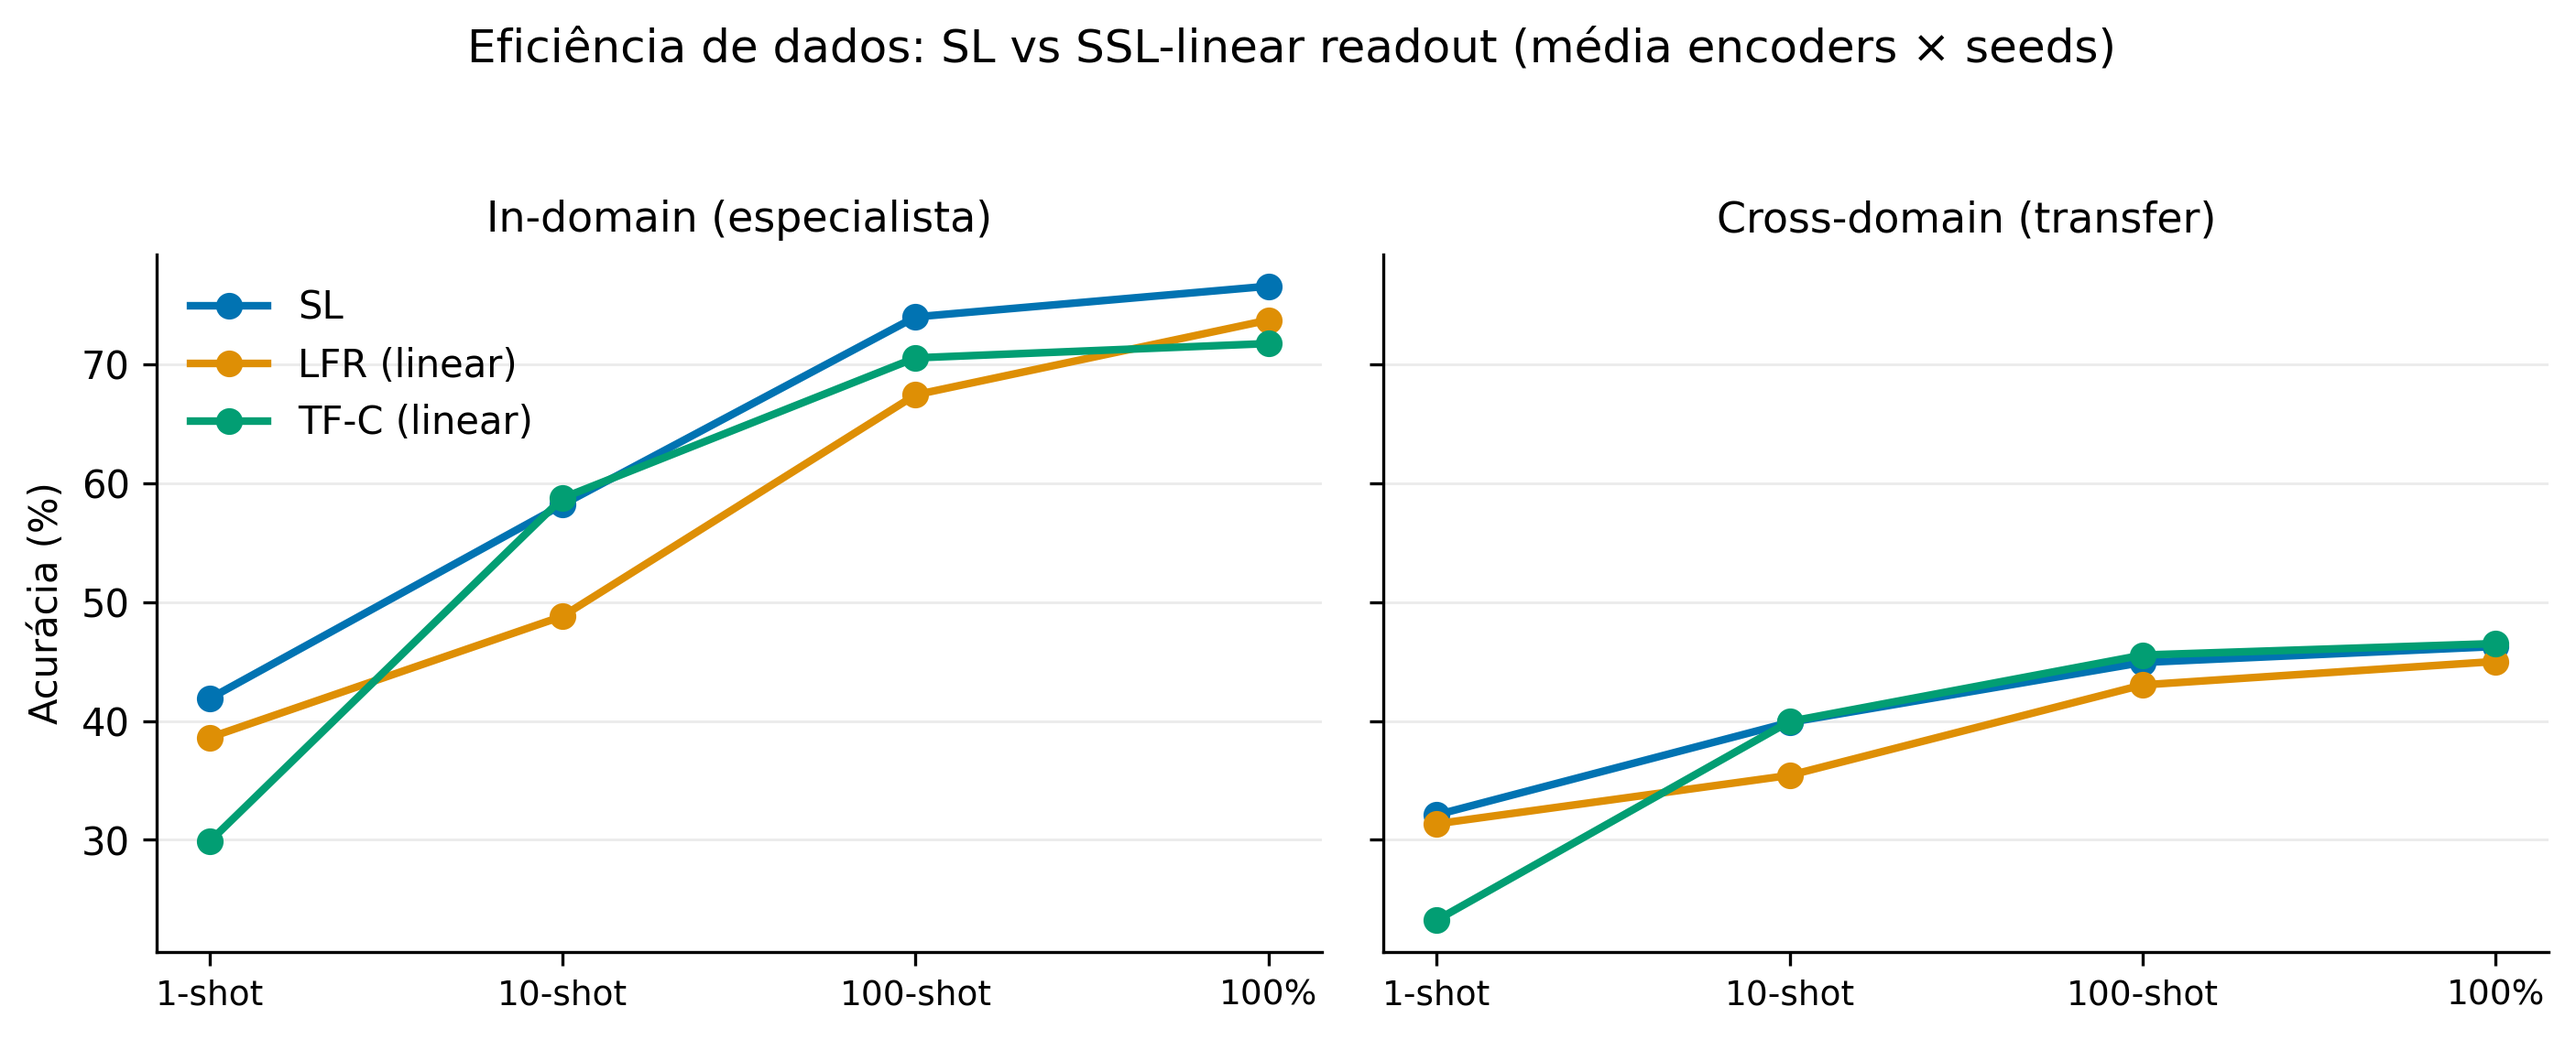
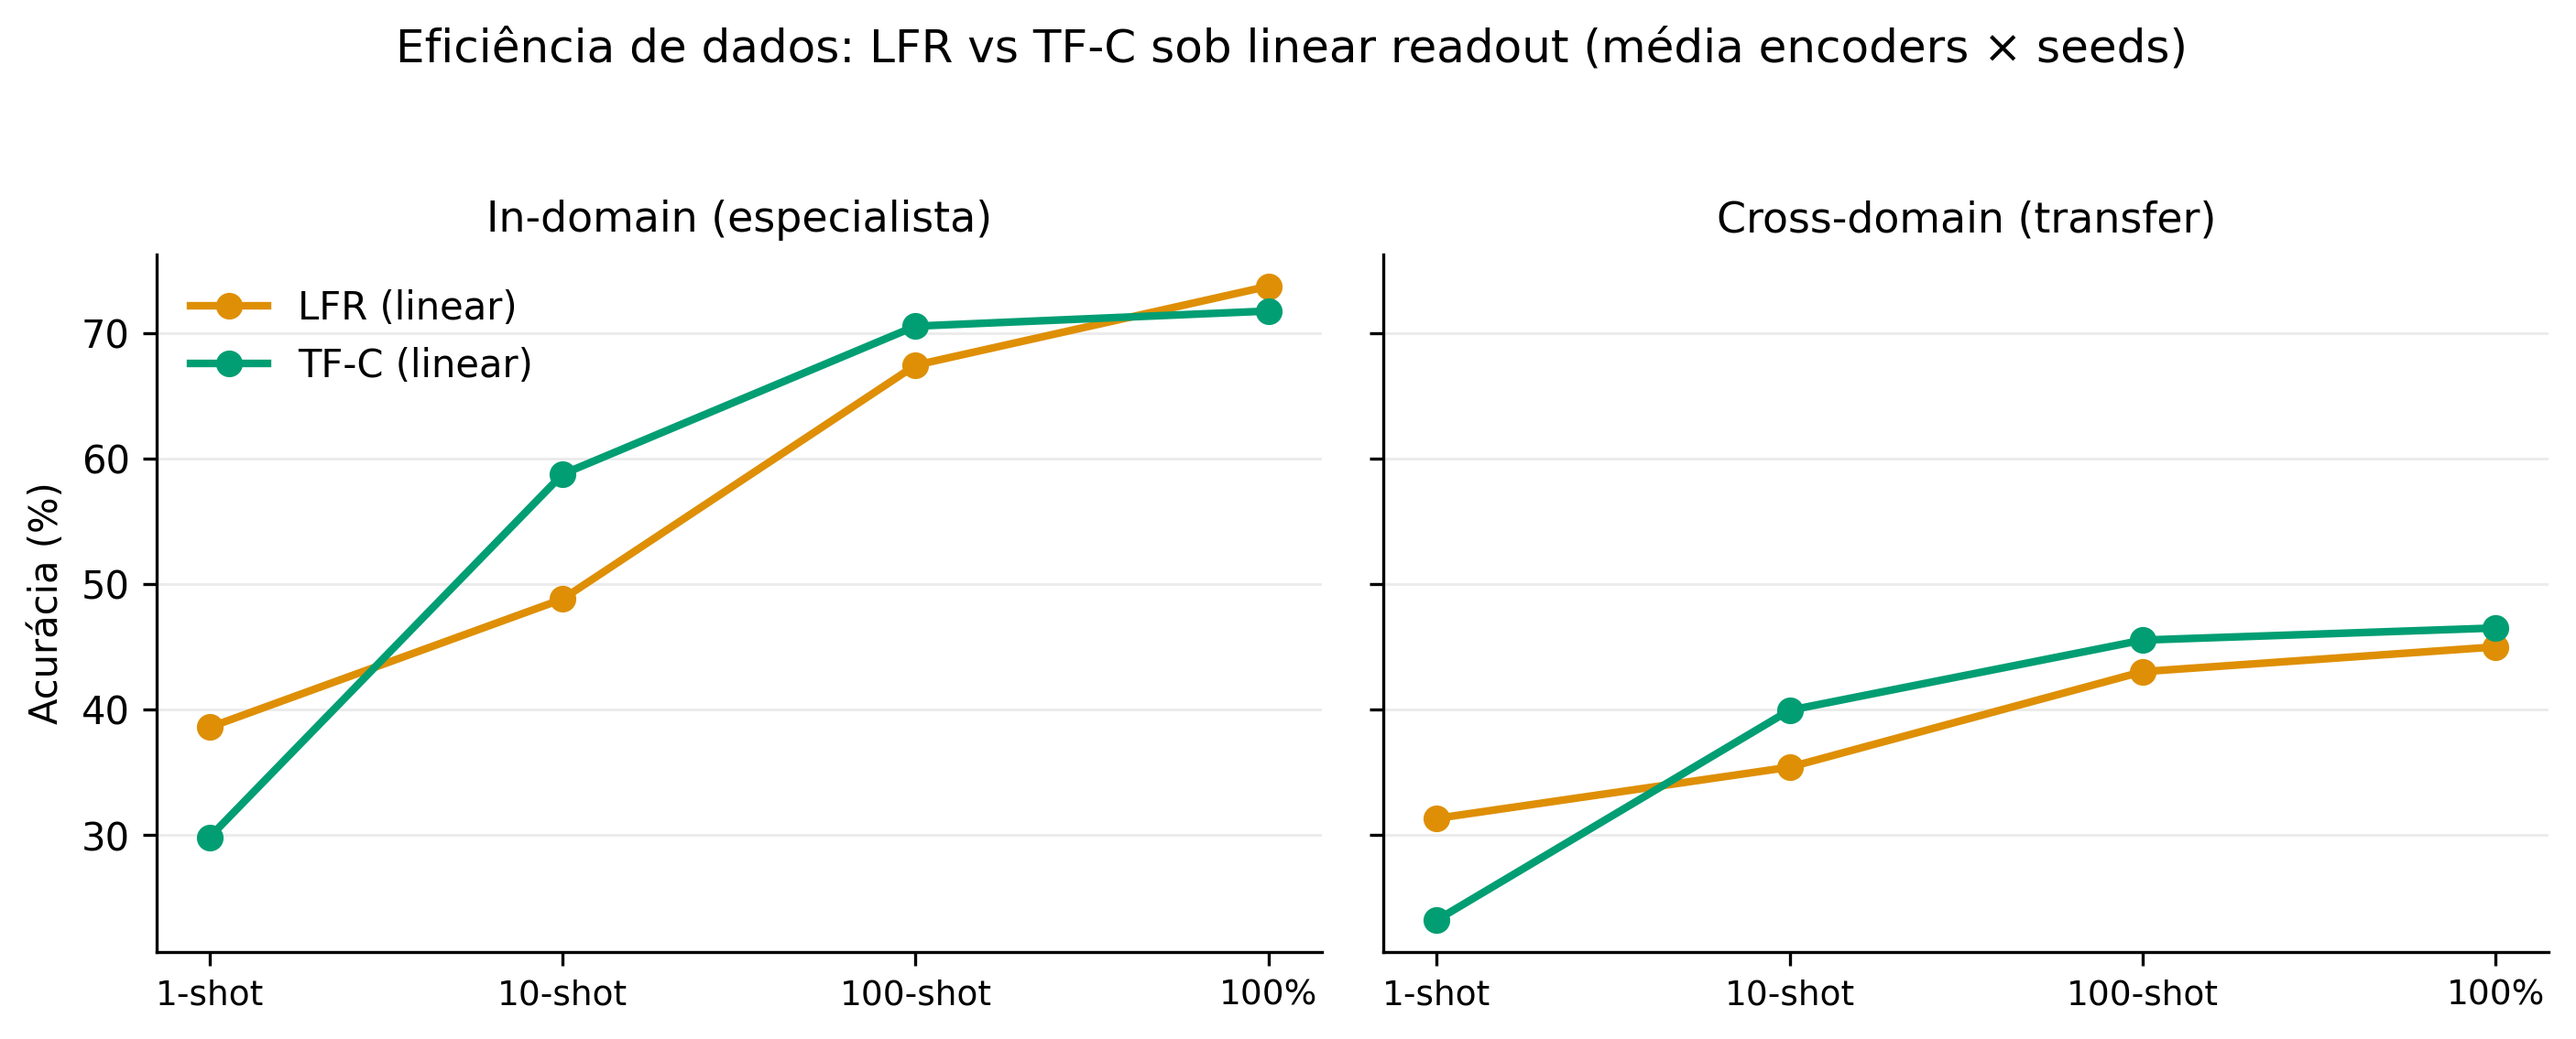
Apresentação: fig linear readout só com LFR vs TF-C (sem SL, comparação injusta)

diff --git a/scripts/analysis/build_presentation_assets.py b/scripts/analysis/build_presentation_assets.py
@@ -201,8 +201,10 @@ def fig_fewshot(df, ssl_protocol="finetune", fname="fig_ssl_vs_sl_fewshot.png",
     fig, axes = plt.subplots(1, 2, figsize=(9.5, 3.6), sharey=True)
     x = np.arange(4)
     for ax, setting in zip(axes, ["in", "cross"]):
-        d = df[(df.setting == setting) & (df.protocol.isin(["sl", ssl_protocol]))]
-        for m in ["SL", "LFR", "TF-C"]:
+        methods = ["SL", "LFR", "TF-C"] if ssl_protocol == "finetune" else ["LFR", "TF-C"]
+        d = df[(df.setting == setting) & (df.protocol == ssl_protocol)
+               | (df.setting == setting) & (df.protocol == "sl") & (df.method == "SL")]
+        for m in methods:
             y = agg(d[d.method == m], ["n_shots"])["test_acc"].reindex(SHOT_ORDER)
             label = m if m == "SL" or ssl_protocol == "finetune" else f"{m} (linear)"
             ax.plot(x, y, marker="o", markersize=6, linewidth=2,
@@ -264,7 +266,7 @@ def main():
     fig_fewshot(df)
     fig_fewshot(df, ssl_protocol="linear",
                 fname="fig_ssl_vs_sl_fewshot_linear.png",
-                subtitle="SL vs SSL-linear readout")
+                subtitle="LFR vs TF-C sob linear readout")
     fig_c2t(sheets["comb2target"])
     fig_c2t(sheets["comb2target"], method="LFR", fname="fig_lfr_comb2target.png",
             headline="pré-treino multi-domínio ~neutro no próprio domínio")
